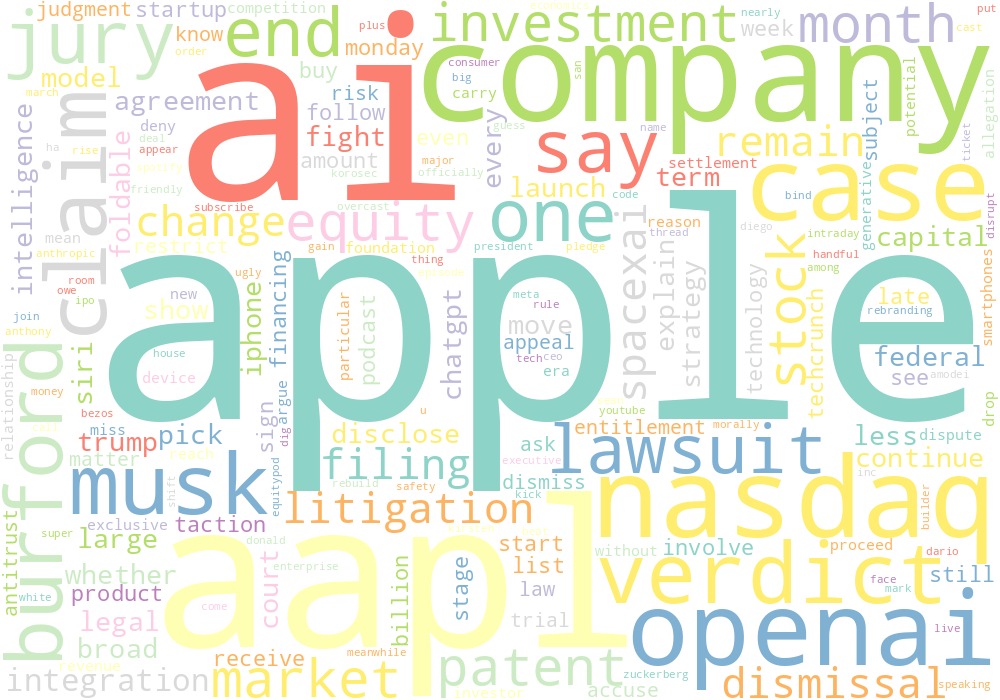
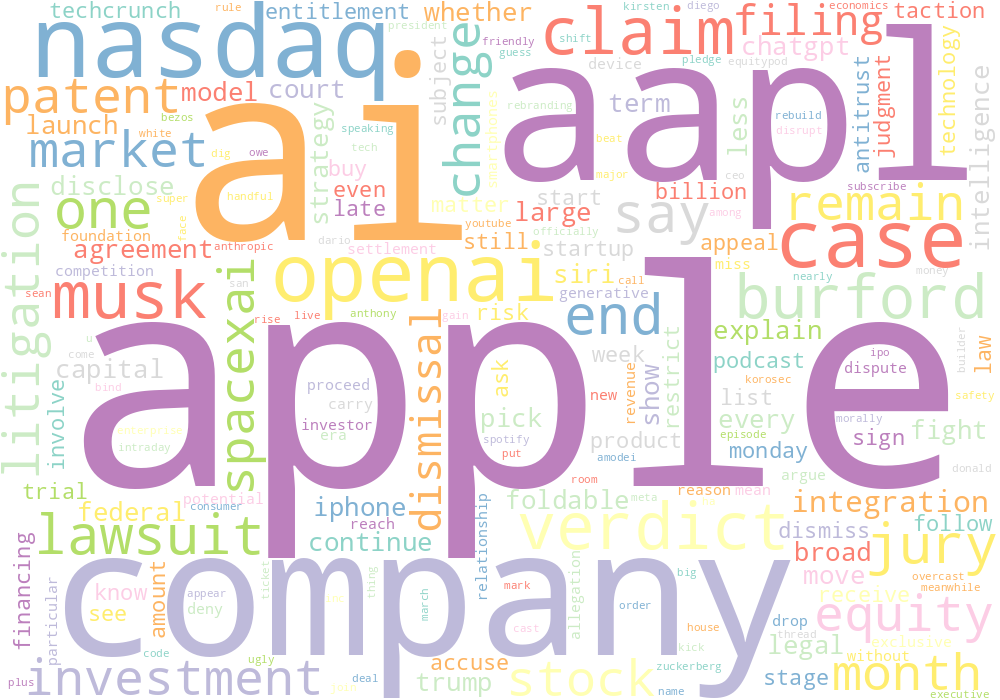
Got basic stock info

diff --git a/stockAnalyze.py b/stockAnalyze.py
@@ -1,4 +1,5 @@
 import yfinance as yf
+from datetime import datetime
 
 def extractBasicInfo(data):
     keysToExtract = ['longName','website','sector','fullTimeEmployees', 'marketCap', 'totalRevenue','epsTrailingTwelveMonths']
@@ -7,13 +8,45 @@ def extractBasicInfo(data):
         if key in data:
             basicInfo[key] = data[key]
         else:
-            basicInfo[key] = ""
+            basicInfo[key] = ''
     return basicInfo
 
-def getCompanyStockInfo(tickerSymbol):
-    company = yf.Ticker(tickerSymbol)
-    basicInfo = extractBasicInfo(company.info)
-    print(basicInfo)
+def getPriceHistory(company):
+    historyDf = company.history(period='1y')
+    prices = historyDf['Open'].tolist()
+    dates = historyDf.index.strftime('%Y-%m-%d').tolist()
+    return {
+        'price': prices,
+        'date': dates
+    }
 
-#get all stock info
-getCompanyStockInfo("MSFT")
+def getEarningDates(company):
+    earningDatesDf = company.earnings_dates
+    allDates = earningDatesDf.index.strftime('%Y-%m-%d').tolist()
+    date_objects = [datetime.strptime(date, '%Y-%m-%d') for date in allDates]
+    currentDate = datetime.now()
+    futureDates = [date.strftime('%Y-%m-%d') for date in date_objects if date > currentDate]
+    return futureDates
+
+def getCompanyNews(company):
+    newsList = yf.Search(company, news_count=100).news
+    allNewsArticles = []
+    for newsDict in newsList:
+        newsDictToAdd = {
+            'title': newsDict['title'],
+            'link': newsDict['link']
+        }
+        allNewsArticles.append(newsDictToAdd)
+    return allNewsArticles
+
+def getCompanyStockInfo(tickerSymbol):
+    # Get data from Yahoo Finance API
+    company = yf.Ticker(tickerSymbol)
+
+    # Get basic info on company
+    basicInfo = extractBasicInfo(company.info)
+    priceHistory = getPriceHistory(company)
+    futureEarningDates = getEarningDates(company)
+    newsArticles = getCompanyNews(tickerSymbol)
+
+getCompanyStockInfo('MSFT')
